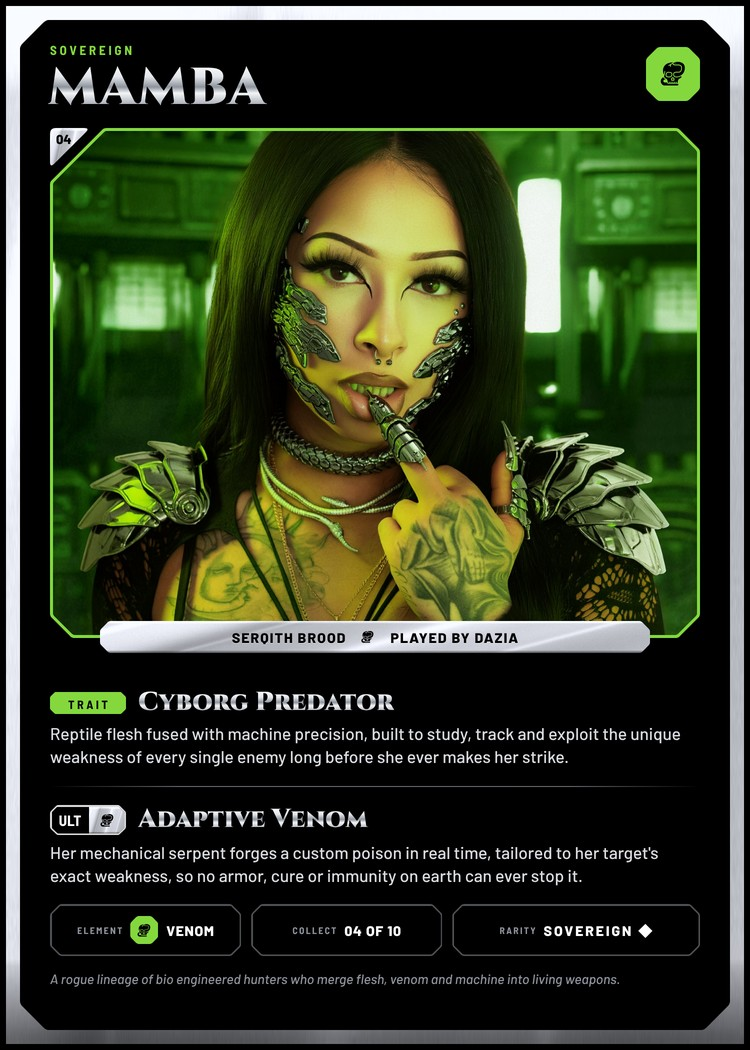
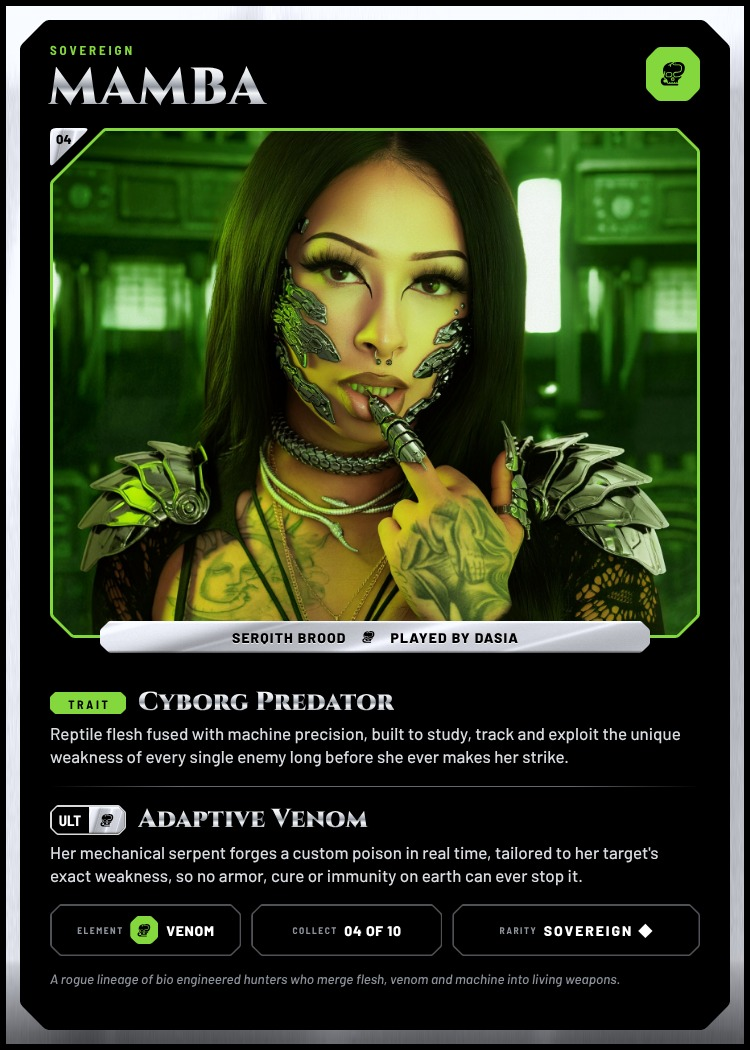
Credit Dasia (Mamba); Hex copy in they/them
Claude-Session: https://claude.ai/code/session_01XqBoTDZG36PsB1FtNjsWYS

Changed region(s): [[0.276, 0.701, 0.3067, 0.7314]]

diff --git a/04/index.html b/04/index.html
@@ -2,11 +2,11 @@
 <html lang="en"><head><meta charset="utf-8">
 <meta name="viewport" content="width=device-width,initial-scale=1,maximum-scale=1,user-scalable=no,viewport-fit=cover">
 <meta name="theme-color" content="#000000">
-<title>Mamba | The Shattered Dominion AR</title><meta name="description" content="Step into Mamba's realm. Dazia as Mamba, The Shattered Dominion by MindOfDerby.">
+<title>Mamba | The Shattered Dominion AR</title><meta name="description" content="Step into Mamba's realm. Dasia as Mamba, The Shattered Dominion by MindOfDerby.">
 <base href="../">
 <link rel="icon" sizes="192x192" type="image/jpeg" href="https://static.wixstatic.com/media/04fb3c_0477b7cfbd684224b1bcdcc46684a7ea%7Emv2.jpg/v1/fill/w_192%2Ch_192%2Clg_1%2Cusm_0.66_1.00_0.01/04fb3c_0477b7cfbd684224b1bcdcc46684a7ea%7Emv2.jpg"><link rel="shortcut icon" type="image/jpeg" href="https://static.wixstatic.com/media/04fb3c_0477b7cfbd684224b1bcdcc46684a7ea%7Emv2.jpg/v1/fill/w_32%2Ch_32%2Clg_1%2Cusm_0.66_1.00_0.01/04fb3c_0477b7cfbd684224b1bcdcc46684a7ea%7Emv2.jpg"><link rel="apple-touch-icon" href="https://static.wixstatic.com/media/04fb3c_0477b7cfbd684224b1bcdcc46684a7ea%7Emv2.jpg/v1/fill/w_180%2Ch_180%2Clg_1%2Cusm_0.66_1.00_0.01/04fb3c_0477b7cfbd684224b1bcdcc46684a7ea%7Emv2.jpg">
 <meta property="og:type" content="website"><meta property="og:site_name" content="The Shattered Dominion by MindOfDerby">
-<meta property="og:title" content="Mamba | The Shattered Dominion AR"><meta property="og:description" content="Step into Mamba's realm. Dazia as Mamba, The Shattered Dominion by MindOfDerby.">
+<meta property="og:title" content="Mamba | The Shattered Dominion AR"><meta property="og:description" content="Step into Mamba's realm. Dasia as Mamba, The Shattered Dominion by MindOfDerby.">
 <meta property="og:url" content="https://mindofderby.github.io/dominion-ar/04/">
 <meta property="og:image" content="https://mindofderby.github.io/dominion-ar/og/04.jpg"><meta property="og:image:width" content="1200"><meta property="og:image:height" content="630">
 <meta name="twitter:card" content="summary_large_image"><meta name="twitter:image" content="https://mindofderby.github.io/dominion-ar/og/04.jpg">
@@ -20,7 +20,7 @@
   <div style="position: absolute; left: 150px; top: 6px; width: 186px; height: 18px; clip-path: path('M6.60 0 L179.40 0 Q181.00 0 182.13 1.13 L184.87 3.87 Q186.00 5.00 186.00 6.60 L186.00 11.40 Q186.00 13.00 184.87 14.13 L182.13 16.87 Q181.00 18.00 179.40 18.00 L6.60 18.00 Q5.00 18.00 3.87 16.87 L1.13 14.13 Q0 13.00 0 11.40 L0 6.60 Q0 5.00 1.13 3.87 L3.87 1.13 Q5.00 0 6.60 0 Z'); background: url(assets/plate-h.jpg) center / 100% 100% no-repeat; display: flex; align-items: center; justify-content: center">
     <img alt="" aria-hidden="true" src="assets/icons/S04.svg" style="position: absolute; left: 4px; top: 4.25px; width: 10px; height: 9.5px; display: block; filter: brightness(0)">
     <img alt="" aria-hidden="true" src="assets/icons/S04.svg" style="position: absolute; right: 4px; top: 4.25px; width: 10px; height: 9.5px; display: block; filter: brightness(0)">
-    <span style="font-family: 'Barlow', sans-serif; font-weight: 800; font-size: 10px; line-height: 1; letter-spacing: 0.04em; color: #000000; text-shadow: 0 0.6px 0 rgba(255,255,255,0.75); white-space: nowrap">DAZIA AS MAMBA</span>
+    <span style="font-family: 'Barlow', sans-serif; font-weight: 800; font-size: 10px; line-height: 1; letter-spacing: 0.04em; color: #000000; text-shadow: 0 0.6px 0 rgba(255,255,255,0.75); white-space: nowrap">DASIA AS MAMBA</span>
   </div>
   <div style="position: absolute; left: 28px; top: 14px; width: 40px; height: 58px; background: #000000; clip-path: polygon(0 0, 100% 0, 100% 100%, 50% 80%, 0 100%); display: flex; justify-content: center">
     <img alt="" src="assets/icons/S04.svg" style="width: 26px; height: 24px; margin-top: 12px; display: block">

diff --git a/08/index.html b/08/index.html
@@ -37,7 +37,7 @@
       </div></div>
       <span style="font-family: 'Barlow', sans-serif; font-weight: 800; font-size: 13px; line-height: 1.1; letter-spacing: 0.04em; text-transform: uppercase; color: #FFFFFF; text-shadow: 0 0 3px #000, 0 0 8px rgba(0,0,0,0.95), 0 1px 2px #000, 0 0 16px rgba(0,0,0,0.7)">Hellbound Devotion</span>
     </div>
-    <p style="margin: 0; font-family: 'Barlow', sans-serif; font-weight: 700; font-size: 11px; line-height: 14px; color: #FFFFFF; text-shadow: 0 0 3px #000, 0 0 8px rgba(0,0,0,0.95), 0 1px 2px #000, 0 0 16px rgba(0,0,0,0.7)">She strikes with a demonic wave of cursed affection, converting those she claims into loyal members of her shadow army.</p>
+    <p style="margin: 0; font-family: 'Barlow', sans-serif; font-weight: 700; font-size: 11px; line-height: 14px; color: #FFFFFF; text-shadow: 0 0 3px #000, 0 0 8px rgba(0,0,0,0.95), 0 1px 2px #000, 0 0 16px rgba(0,0,0,0.7)">They strike with a demonic wave of cursed affection, converting those they claim into loyal members of their shadow army.</p>
   </div>
   <button type="button" aria-label="Close and scan another page" onclick="location.href='./'" style="position: absolute; right: 26px; bottom: 44px; width: 46px; height: 46px; padding: 0; border: 0; cursor: pointer; background: url(assets/plate-h.jpg) center / 100% 100% no-repeat; box-shadow: inset 0 1px 0 rgba(255,255,255,0.9), inset 0 -2px 3px rgba(0,0,0,0.35); clip-path: path('M6.88 2.12 Q9.00 0.00 12.00 0.00 L34.00 0.00 Q37.00 0.00 39.12 2.12 L43.88 6.88 Q46.00 9.00 46.00 12.00 L46.00 34.00 Q46.00 37.00 43.88 39.12 L39.12 43.88 Q37.00 46.00 34.00 46.00 L12.00 46.00 Q9.00 46.00 6.88 43.88 L2.12 39.12 Q0.00 37.00 0.00 34.00 L0.00 12.00 Q0.00 9.00 2.12 6.88 Z'); display: flex; align-items: center; justify-content: center">
     <svg width="18" height="18" viewBox="0 0 18 18" fill="none" stroke="#000000" stroke-width="2.6" stroke-linecap="square" aria-hidden="true"><path d="M3 3l12 12M15 3L3 15"></path></svg>
